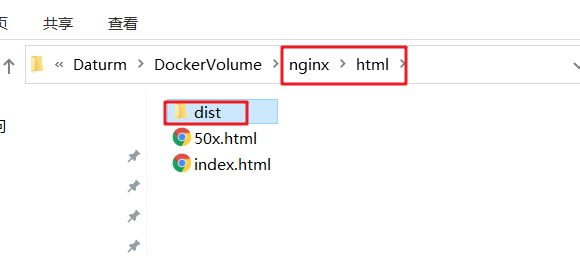
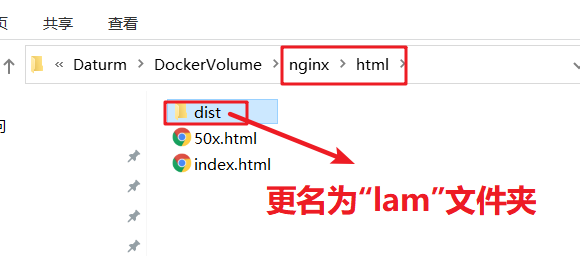
更新README

Changed region(s): [[0.4345, 0.7188, 0.931, 0.8438], [0.3724, 0.4375, 0.5276, 0.5625], [0.5276, 0.5625, 0.6207, 0.6562]]

diff --git a/README.md b/README.md
@@ -2,9 +2,9 @@
 
 # 介绍
 
-基于RuoYi3.8.5 + MyBatis-Plus3.5.1开发的账户管理系统，
+基于RuoYi3.8.5 + MyBatis-Plus3.5.1开发的账号管理系统，
 
-一站式管理个人名下的所有的账户密码，数据做到层层加密，
+一站式管理个人名下的所有的账号密码，数据做到层层加密，
 
 哪怕数据库被撞开，也无法破译里面的信息，安全性极高。
 
@@ -12,29 +12,29 @@
 
 ## 个人账号管理
 
-**账号总览**
+* **账号总览**
+  
+  ![](README.assets/2023-04-25-10-59-42-image.png)
 
-![](README.assets/2023-04-18-20-15-28-image.png)
+* **条件搜索**
+  
+  ![](README.assets/2023-04-25-11-00-23-image.png)
 
-**条件搜索**
+* **密码查看**
+  
+  ![](README.assets/2023-04-25-11-00-52-image.png)
 
-![](README.assets/2023-04-18-20-15-02-image.png)
+* **账号新增**
+  
+  ![](README.assets/2023-04-25-11-01-22-image.png)
 
-**密码查看**
+* **账号修改**
+  
+  ![](README.assets/2023-04-25-11-01-45-image.png)
 
-![](README.assets/2023-04-18-20-18-43-image.png)
-
-**账号新增**
-
-![](README.assets/2023-04-18-20-16-51-image.png)
-
-**账号修改**
-
-![](README.assets/2023-04-18-20-17-27-image.png)
-
-**账号移除**
-
-![](README.assets/2023-04-18-20-19-35-image.png)
+* **账号移除**
+  
+  ![](README.assets/2023-04-25-11-02-03-image.png)
 
 ## 数据极限加密
 
@@ -59,11 +59,11 @@ http://localhost:8080/lam/key/
 
 ![](README.assets/2023-04-15-19-31-06-image.png)
 
-# 项目部署
+# Docker部署
 
 * 基础部署可以参考：[环境部署 | RuoYi](http://doc.ruoyi.vip/ruoyi-vue/document/hjbs.html#%E9%83%A8%E7%BD%B2%E7%B3%BB%E7%BB%9F)
 
-## Docker-Compose
+**注：** 本次部署环境全用`Docker-Compose`实现
 
 所需环境全用Docker部署（`MySQL8` + `Redis` + `Nginx`）
 
@@ -99,7 +99,7 @@ npm run build:prod
 
 * 更改默认密钥（可选）
   
-  注意，更改默认密钥后，初始的两个用户的默认密钥也要做出相应修改，这里简易用超管账户登录后重新创建一个用户，再将这个账户设为超管账户。
+  注意，更改默认密钥后，初始的两个用户的默认密钥也要做出相应修改，这里简易用超管账号登录后重新创建一个用户，再将这个账号设为超管账号。
   
   ![](README.assets/2023-04-18-20-47-15-image.png)
 
@@ -111,7 +111,7 @@ npm run build:prod
 
 ##### 创建docker镜像
 
-将上面打包好的`ruoyi-admin.jar`和项目中的`DOCKERFILE`放在同一目录下
+将上面打包好的`ruoyi-admin.jar`和项目中的`Dockerfile`放在同一目录下
 
 ```sh
 docker build -t lam-master .
@@ -119,7 +119,7 @@ docker build -t lam-master .
 
 ![](README.assets/2023-04-18-21-03-59-image.png)
 
-### 环境部署
+### 后端环境部署
 
 #### 创建网络
 
@@ -172,7 +172,7 @@ docker-compose up -d
       # 外部挂载
       volumes:
         # 日志
-        - ${LAM_PATH}/logs:/logs
+        - ${PROGRAM_SOURCE}/logs:/logs
       # 健康检查
       healthcheck:
         # http://localhost:8080/heart/ 为容器指定的健康检查接口
@@ -281,6 +281,8 @@ docker-compose up -d
 
 1. 将前面打包好的前端`dist`文件夹放入nginx外部挂载文件夹中
    
+   并将`dist`文件夹更名为`lam`文件夹
+   
    ![](README.assets/2023-04-18-21-25-31-image.png)
 
 2. 修改nginx配置
@@ -296,7 +298,7 @@ docker-compose up -d
        server_name  localhost;
    
        location / {
-           root   /usr/share/nginx/html/dist;
+           root   /usr/share/nginx/html/lam;
            try_files $uri $uri/ /index.html;
            index  index.html index.htm;
        }
@@ -335,4 +337,4 @@ http://localhost:3008/
 
 ![](README.assets/2023-04-18-21-29-51-image.png)
 
-![](README.assets/2023-04-18-22-04-29-image.png)
+![](README.assets/2023-04-25-10-55-38-image.png)
